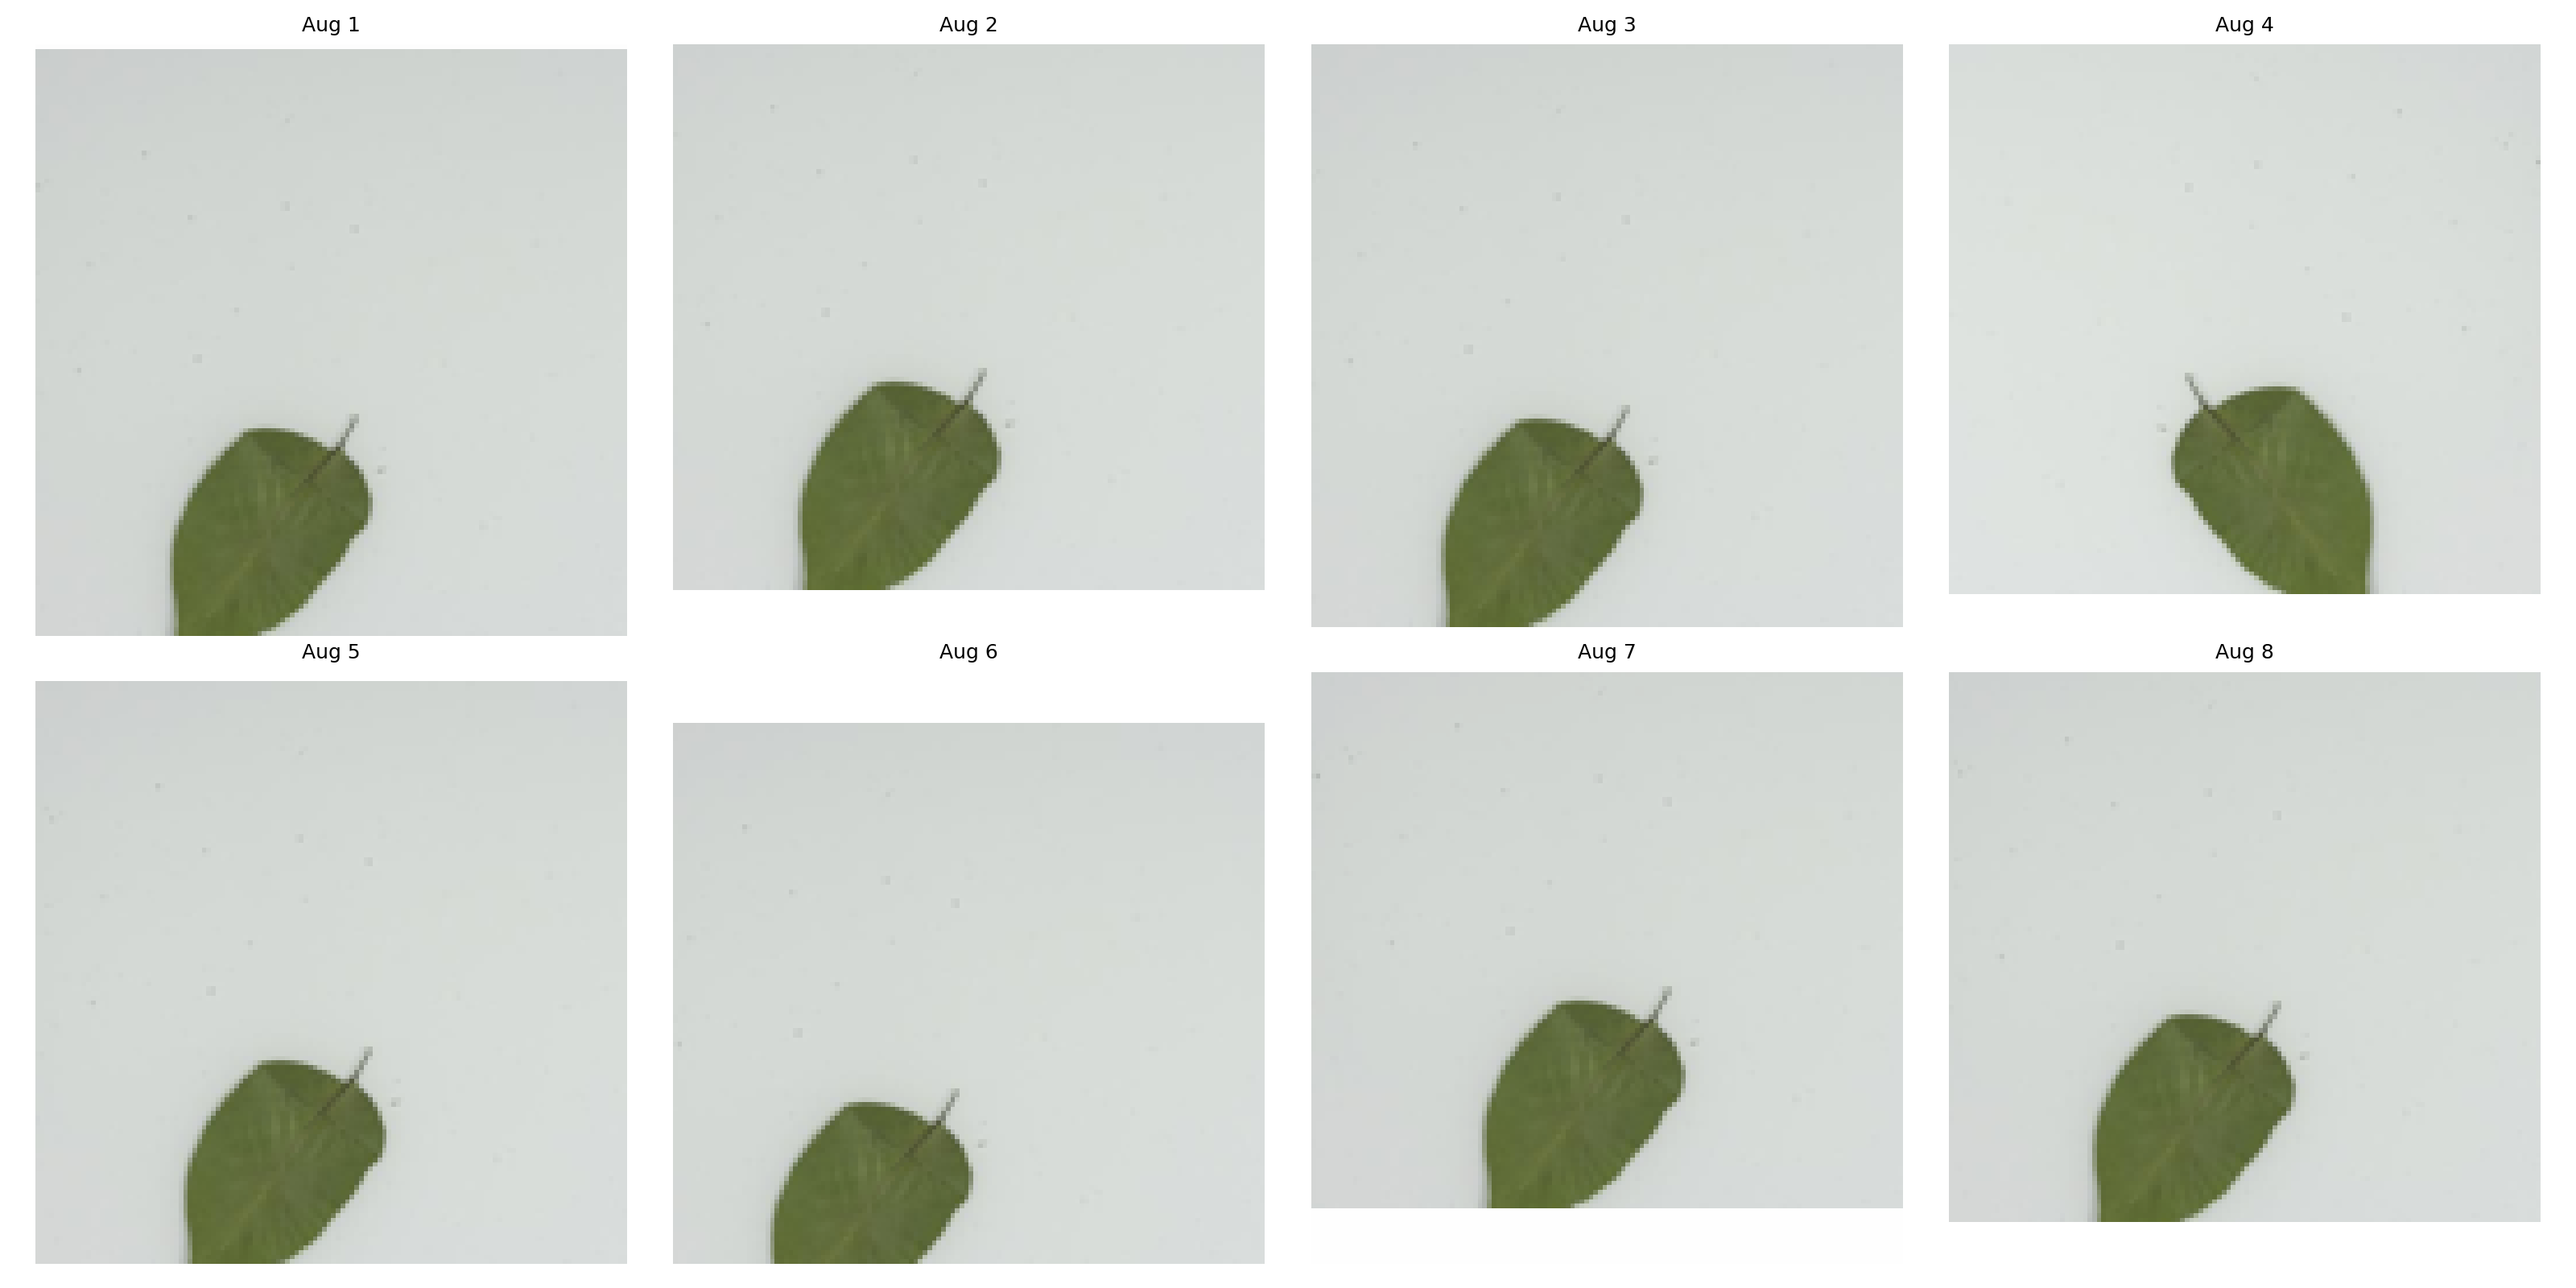
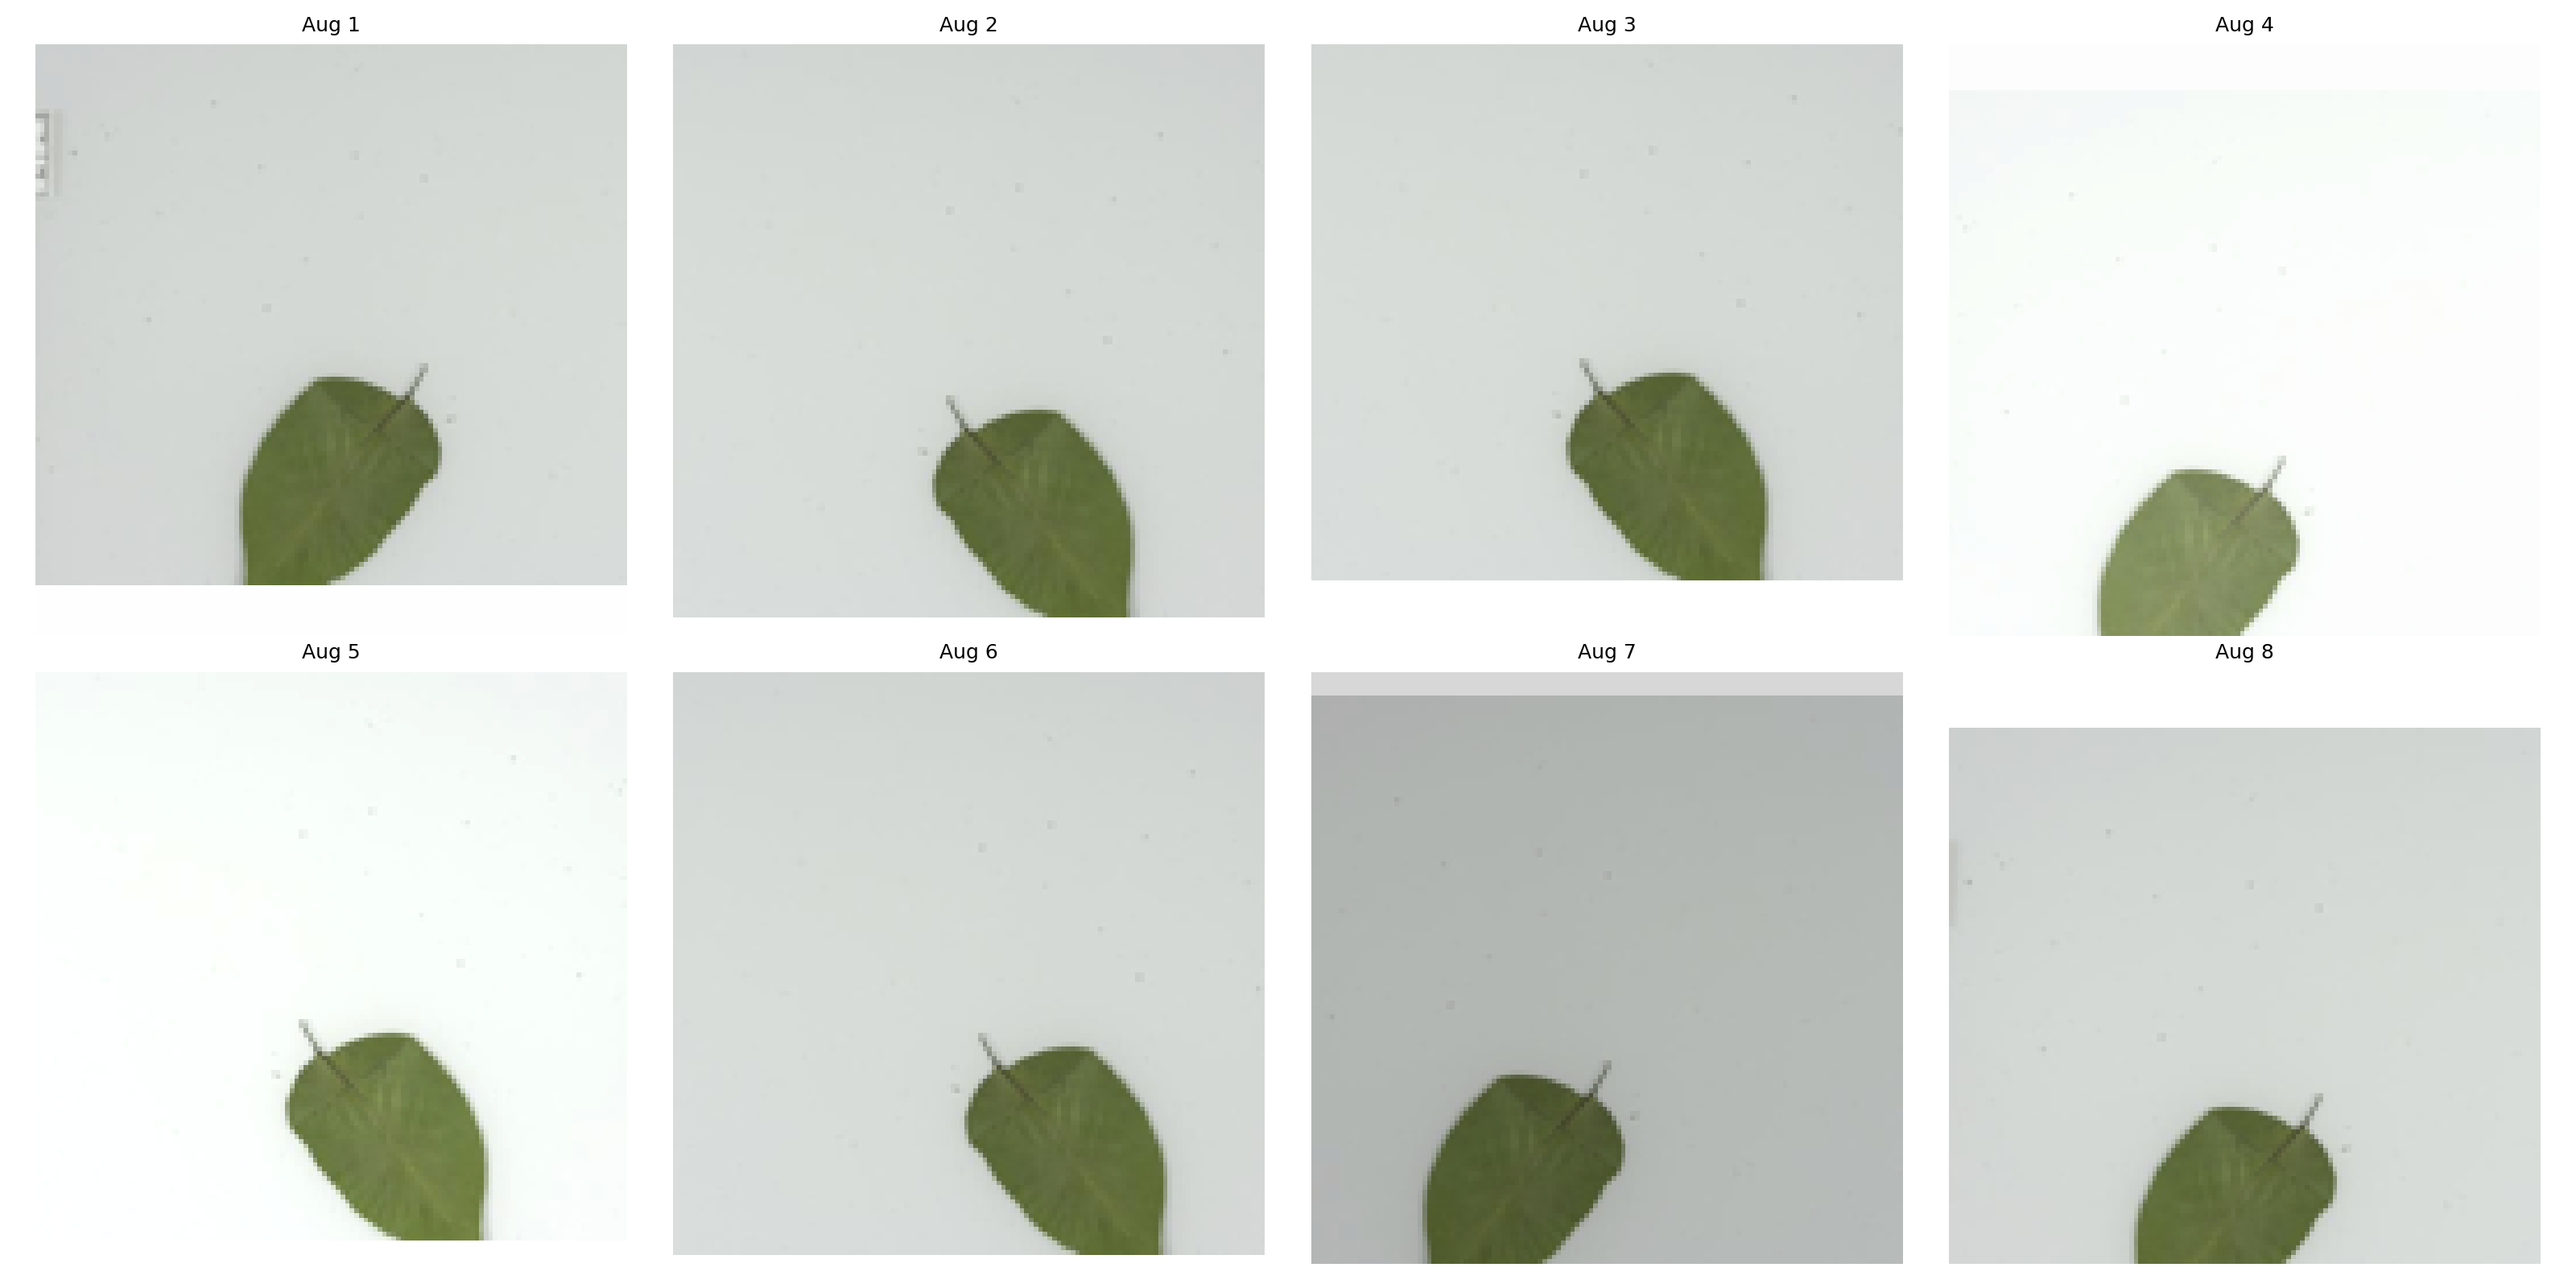
Add Part 2 data EDA notebook

diff --git a/PART2_DATA.md b/PART2_DATA.md
@@ -52,7 +52,7 @@ Part 2 specifics:
 - Field images: 2,075
 - The train/val/test splits are non-overlapping, and all split paths exist in `data/metadata/images.csv`.
 
-## What can be done next （下一个人能发现这条不
+## What can be done next 
 
 1. Use the existing split files for training:
    - `data/splits/train.csv`
